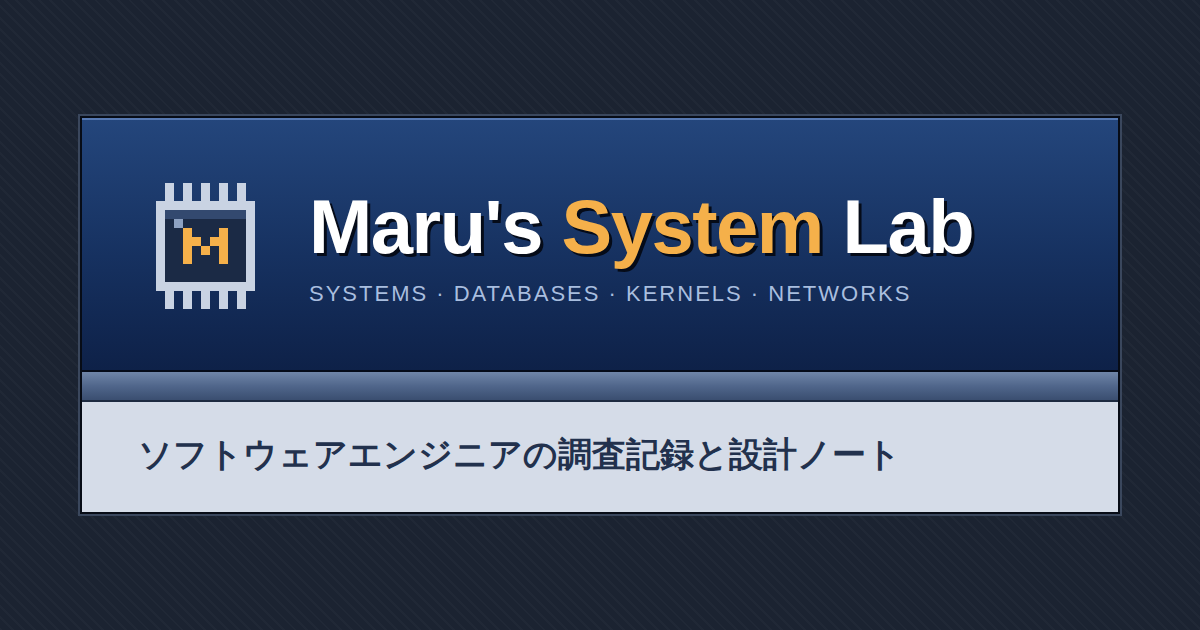
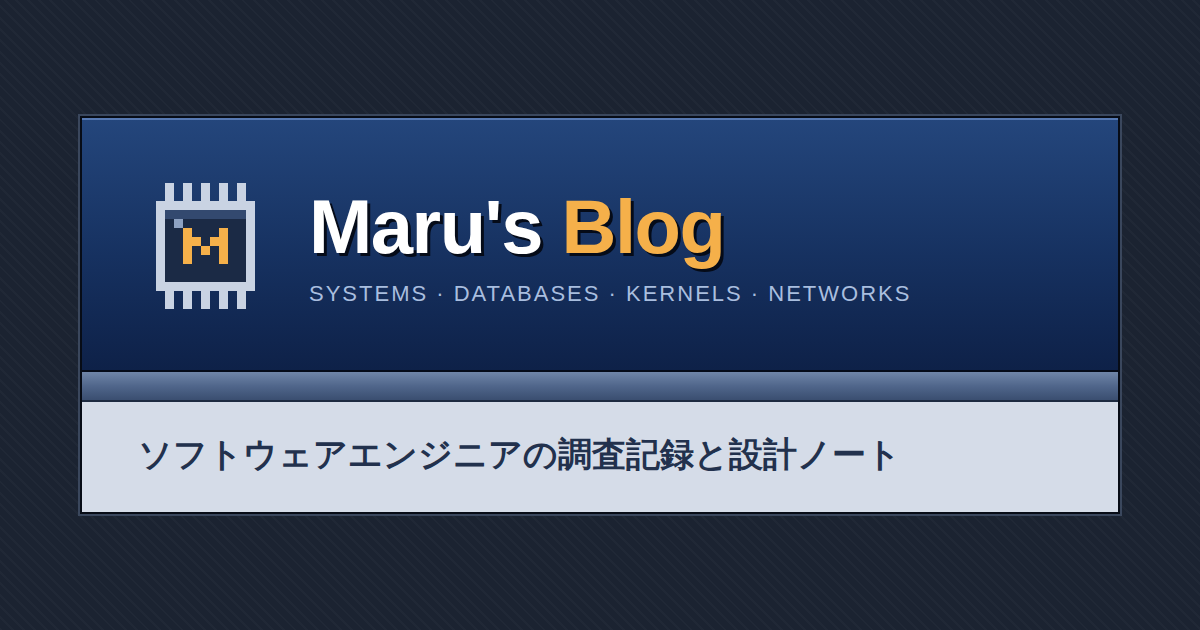
Rename the site to Maru's Blog
The name now lives only in src/data/site.ts. The header highlights its last word,
so a future rename is a one-line change. Infrastructure names follow the domain
blog.marulabs.dev rather than the display name, so they stay as they are.

Changed region(s): [[0.4625, 0.3016, 0.8325, 0.4524]]

diff --git a/tests/e2e/site.spec.ts b/tests/e2e/site.spec.ts
@@ -125,7 +125,7 @@ test.describe("article", () => {
 
   test("includes SEO metadata", async ({ page }) => {
     await page.goto(MAIN_ARTICLE);
-    await expect(page).toHaveTitle("PostgreSQLのMVCCとVACUUMの内部構造 — Maru's System Lab");
+    await expect(page).toHaveTitle("PostgreSQLのMVCCとVACUUMの内部構造 — Maru's Blog");
     await expect(page.locator('link[rel="canonical"]')).toHaveAttribute(
       "href",
       `https://blog.marulabs.dev${MAIN_ARTICLE}`,

diff --git a/src/data/site.ts b/src/data/site.ts
@@ -1,5 +1,6 @@
 export const site = {
-  title: "Maru's System Lab",
+  /** The only place the site name is written. The header highlights its last word. */
+  title: "Maru's Blog",
   tagline: "Distributed Systems · Databases · Kernels · Networks",
   taglineShort: "Systems · DB · Kernels · Net",
   description: "ソフトウェアエンジニアの調査記録と設計ノート",

diff --git a/CLAUDE.md b/CLAUDE.md
@@ -1,6 +1,6 @@
 # marulabs-blog
 
-技術ブログ「Maru's System Lab」（https://blog.marulabs.dev）の Public リポジトリ。
+技術ブログ「Maru's Blog」（https://blog.marulabs.dev）の Public リポジトリ。
 
 **このリポジトリのすべては公開情報です。** コミットした時点で公開されたものとして扱ってください。Web のビルド対象から外しても、GitHub 上の非公開性は保証されません。
 

diff --git a/README.md b/README.md
@@ -1,4 +1,4 @@
-# Maru's System Lab
+# Maru's Blog
 
 ソフトウェアエンジニアの調査記録と設計ノート。2000年代前半の技術フォーラム風の個人技術ブログです。
 
